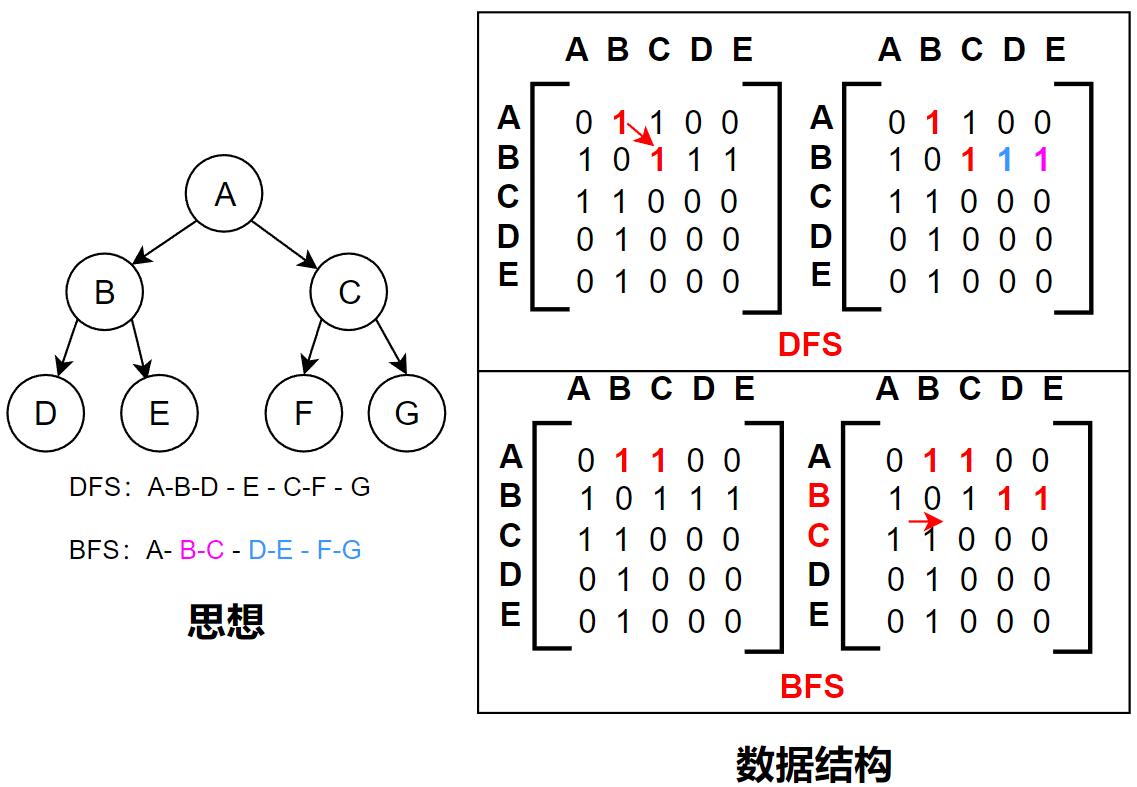
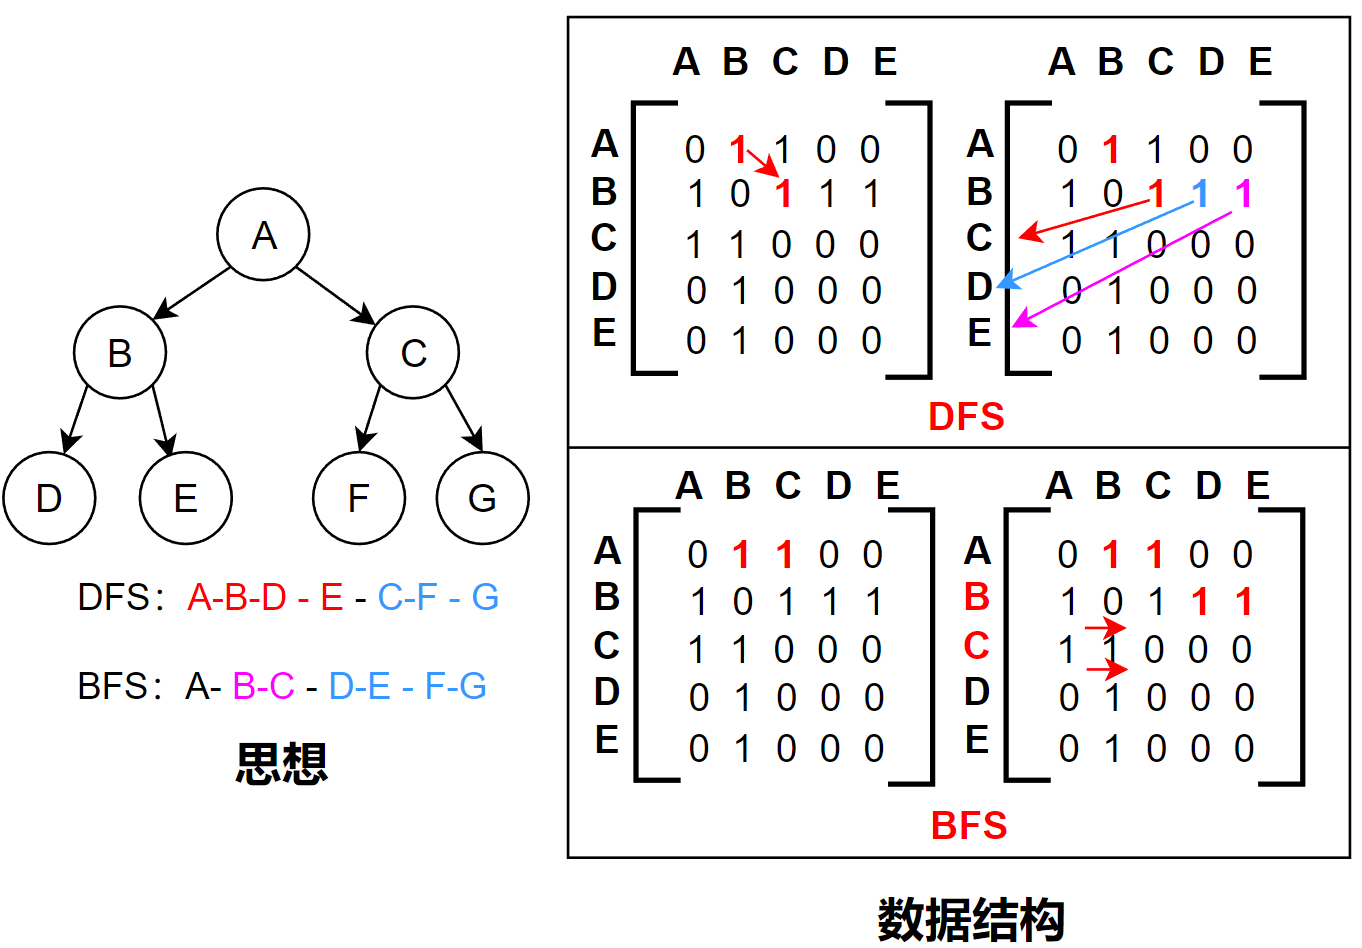
10/12/1

diff --git a/_posts/2022-10-10-garph.md b/_posts/2022-10-10-garph.md
@@ -179,7 +179,7 @@ public void myDFS(boolean[] isVisited, int n){
 
 ### BFS 代码实现
 
-与DFS类似，自己对课程的代码改进如下：课程代码依然用两个封装好的方法，挂靠到第一个邻接，以及从第一个邻接开始找第二个邻接。下面的代码则是一个一个从邻接矩阵中找哪个节点是邻接，由于依次，也保证了顺序。注意对每个未访问节点的”三连“：**输出，标记，入队列**。
+与DFS类似，自己对课程的代码改进如下：课程代码依然用两个封装好的方法，挂靠到第一个邻接，以及从第一个邻接开始找第二个邻接。下面的代码则是一个一个从邻接矩阵中找哪个节点是邻接，由于依次，也保证了顺序。注意访问每个节点时都有的”三连“操作：**输出，标记，入队列**。
 
 {% highlight js %}
 public void myBFS(boolean[] isVisited, int i) {
@@ -205,27 +205,23 @@ public void myBFS(boolean[] isVisited, int i) {
     }
 {% endhighlight %}
 
-
-
-
-
-
-
-
-
 ## 对比与总结
 
 树形状有明显的“层”的概念，可以更好地理解两种遍历方式。如图：
 
 ![bfsANDdfs.png](/images/bfsANDdfs.png "各种意义上的对比"){: .align-center}
 
-可以看出，DFS和BFS都是对图里的所有节点都要执行一次小的 dfs 和 bfs ，最后通过重载的方法执行整个遍历，这一点不要搞混。
+注意，DFS和BFS都是对图里的所有节点都要执行一次小的 dfs 和 bfs ，最后通过重载的方法执行整个遍历，这一点不要搞混。
 
+两种遍历方式的流程图：
 
+![flowChart03.png](/images/flowChart03.png "流程图"){: .align-center}
 
+最后再次重申两种遍历的思想：
 
+- DFS ：一条路跑到黑，递归+循环=回溯
 
-
+- BFS ：先可着一个节点来，循环+队列=按顺序依次执行
 
 
 
